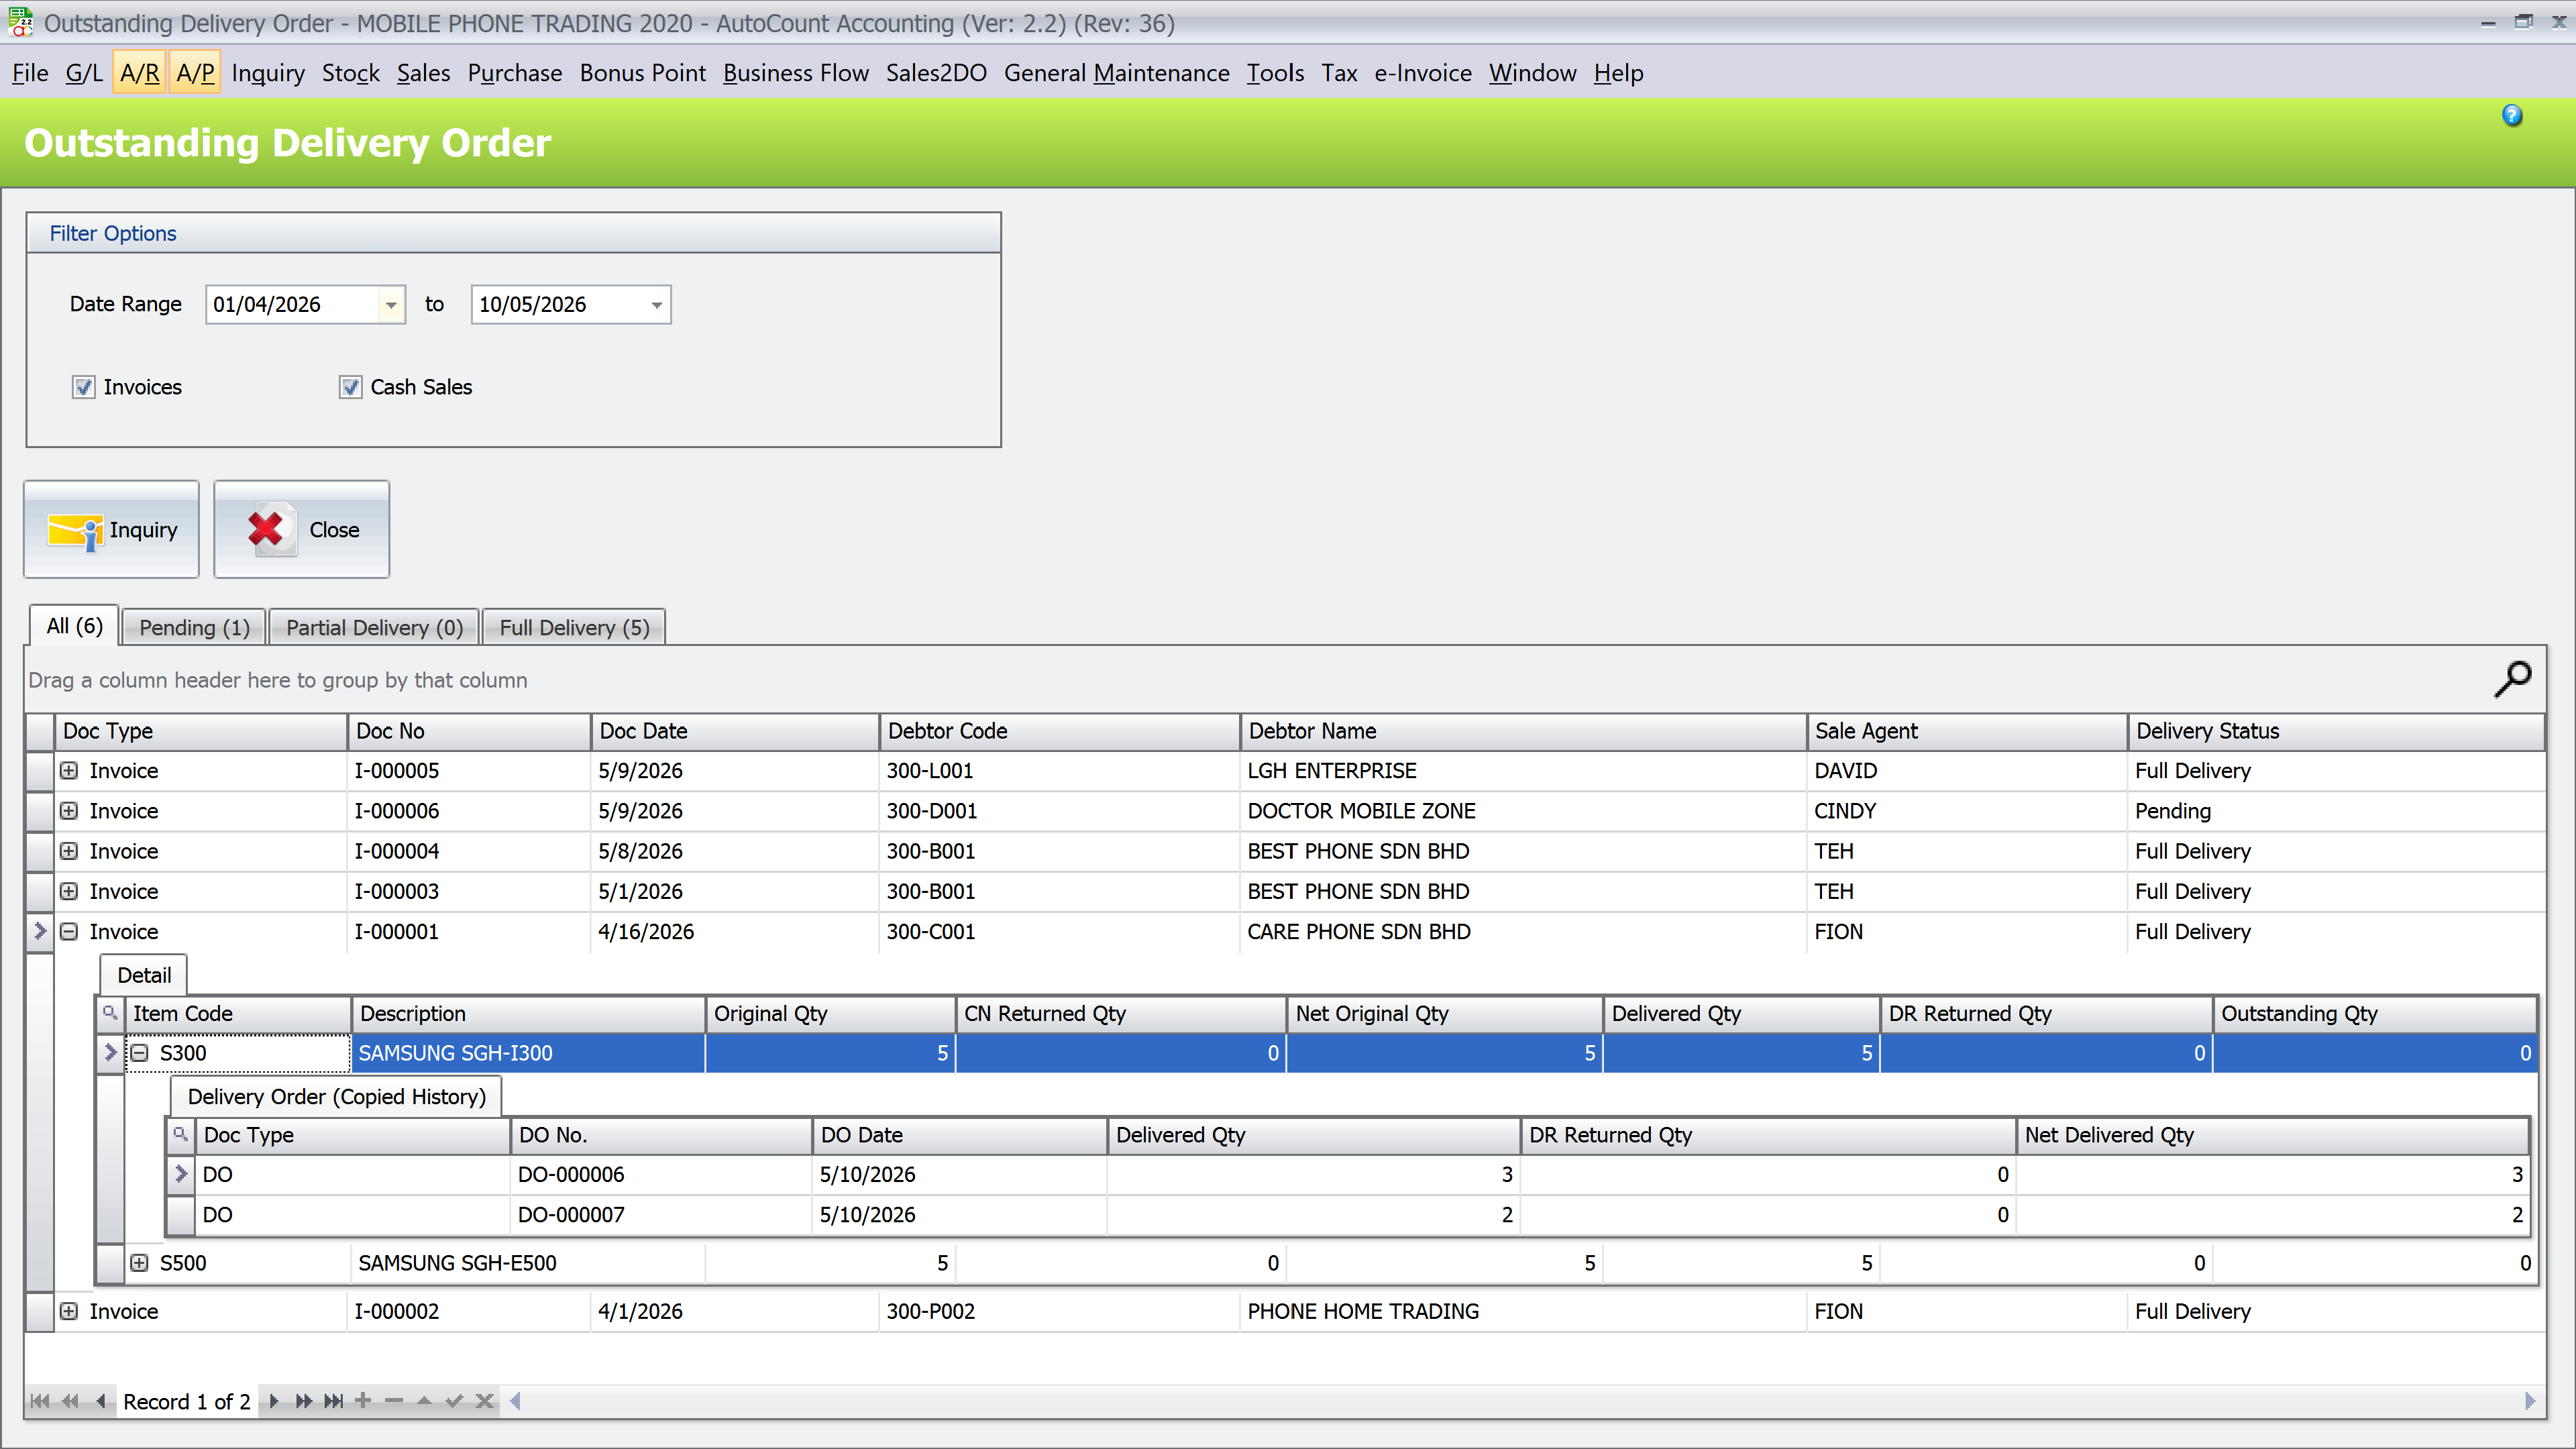
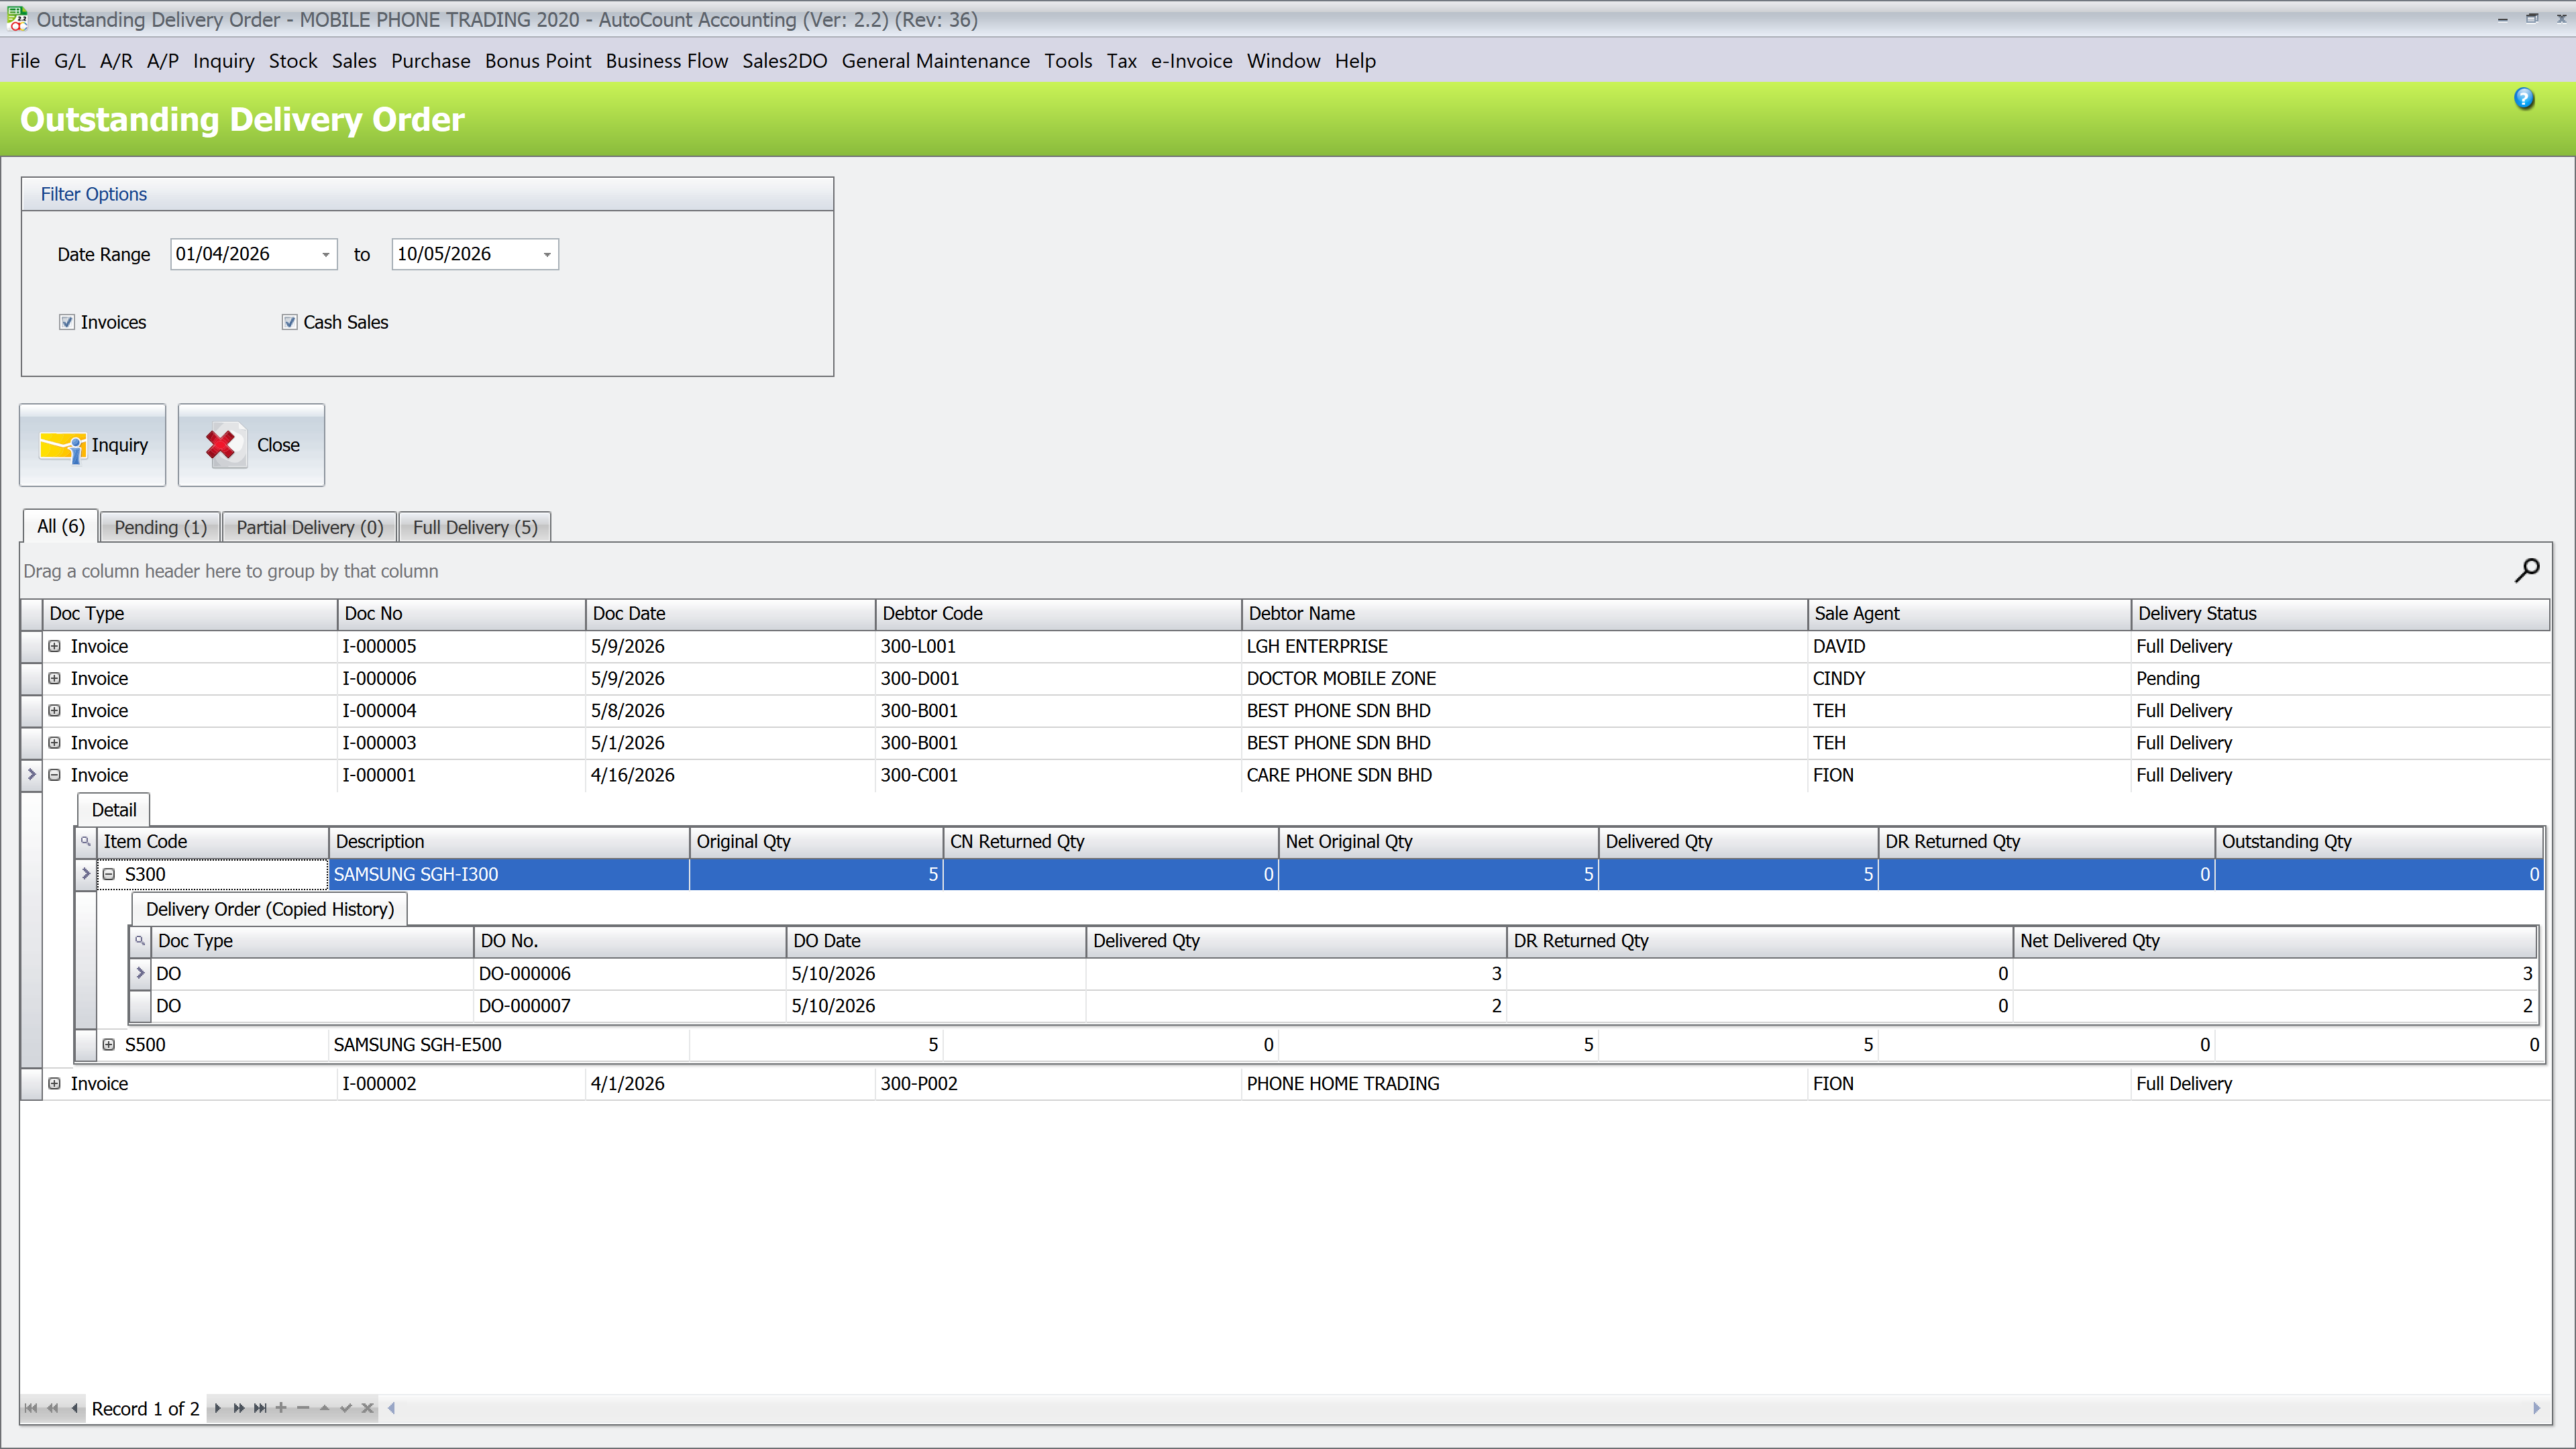
feat: in-page chatbot on touch, smarter back, new Sales2DO screenshots
AIChatbot:
- mobile / tablet FAB used to open KS-Omni in a new tab via target=_blank,
  which broke navigation continuity on the originating page. Drop the
  isTouch branch entirely so every device opens the same in-page modal.
- remove the now-unused isTouch state, omniHref helper, and resize listener.

KSOmni page:
- "Back to Homepage" button → "Back" — when there is browser history,
  pop one entry (returns to wherever the user came from); otherwise fall
  back to navigating "/" so direct visits to /omni still work.

Sales2DO page — wire up the four newly captured screenshots:
- hero.png — Outstanding DO with the Sales2DO menu dropdown visible (hero)
- outstanding.png — clean Outstanding DO dashboard (Outstanding section)
- preset-delivery.png — Stock Item Maintenance UDF tab (Preset section,
  was previously a placeholder)
- settings.png — refreshed Plugin Settings dialog

Changed region(s): [[0.0, 0.0, 1.0, 0.9926]]

diff --git a/src/components/AIChatbot.jsx b/src/components/AIChatbot.jsx
@@ -108,23 +108,7 @@ function Message({ msg }) {
 
 /* ── Main chatbot component ── */
 export default function AIChatbot({ app }) {
-  /* Build the omni page URL — appends ?app=<name> when caller passes a context */
-  const omniHref = app
-    ? `${OMNI_PAGE_BASE}?app=${encodeURIComponent(app)}`
-    : OMNI_PAGE_BASE;
-
   const [open, setOpen] = useState(false);
-  /* Detect touch-sized viewport so we can render an <a> instead of a <button>
-     for tablet/mobile — guarantees the tap reliably opens a new tab without
-     popup-blocker interference (window.open can fail silently on some tablets) */
-  const [isTouch, setIsTouch] = useState(
-    typeof window !== "undefined" && window.innerWidth <= 1024
-  );
-  useEffect(() => {
-    const onResize = () => setIsTouch(window.innerWidth <= 1024);
-    window.addEventListener("resize", onResize);
-    return () => window.removeEventListener("resize", onResize);
-  }, []);
 
   const [messages, setMessages] = useState([
     {
@@ -458,22 +442,9 @@ export default function AIChatbot({ app }) {
         const hoverIn  = e => { e.currentTarget.style.transform = "scale(1.08)"; e.currentTarget.style.background = "#3d4075"; };
         const hoverOut = e => { e.currentTarget.style.transform = "scale(1)";    e.currentTarget.style.background = "#2f315a"; };
 
-        if (isTouch) {
-          return (
-            <a
-              href={omniHref}
-              target="_blank"
-              rel="noopener noreferrer"
-              aria-label="Open AI assistant"
-              title="AutoCount Plugin Assistant"
-              style={fabStyle}
-              onMouseOver={hoverIn}
-              onMouseOut={hoverOut}
-            >
-              ?
-            </a>
-          );
-        }
+        /* Use the same in-page modal on every device — touch users used
+         * to be punted to a new tab via target="_blank", which broke
+         * navigation continuity. */
         return (
           <button
             onClick={() => setOpen(o => !o)}

diff --git a/src/pages/KSOmni.jsx b/src/pages/KSOmni.jsx
@@ -264,9 +264,13 @@ export default function KSLOmniPage() {
     setPasteError("");
   }
 
+  /* Try the browser back stack first — keeps users on whatever page
+   * they came from (Sales2DO, AutoCount, homepage). Falls back to "/"
+   * when /omni was opened directly (no prior history entry). */
   function goHome() {
     abortRef.current?.abort();
-    navigate("/");
+    if (window.history.length > 1) navigate(-1);
+    else navigate("/");
   }
 
   /* ── Shared image upload pipeline (paste OR file picker) ──
@@ -457,7 +461,7 @@ export default function KSLOmniPage() {
       : { ...baseBtn, background: "rgba(201,168,76,0.12)", border: "1px solid rgba(201,168,76,0.4)",    color: "#a17f1e" };
     return (
       <div style={{ display: "flex", gap: "0.5rem", flexWrap: "wrap" }}>
-        <button onClick={goHome} style={ghost}><BackIcon /> Back to Homepage</button>
+        <button onClick={goHome} style={ghost}><BackIcon /> Back</button>
         <button onClick={() => setShowQR(true)} style={gold}><QRIcon /> Open on Phone</button>
         <button onClick={clearChat} style={ghost}><TrashIcon /> Clear Chat</button>
       </div>
@@ -484,7 +488,7 @@ export default function KSLOmniPage() {
           paddingTop: "max(0.7rem, env(safe-area-inset-top))",
           display: "flex", alignItems: "center", gap: "0.55rem", flexShrink: 0,
         }}>
-          <button onClick={goHome} title="Back to Homepage" aria-label="Back to Homepage"
+          <button onClick={goHome} title="Back" aria-label="Back"
             style={{
               background: "rgba(255,255,255,0.1)", border: "none", color: "rgba(255,255,255,0.85)",
               width: 34, height: 34, borderRadius: "50%", cursor: "pointer",

diff --git a/src/pages/apps/Sales2DO.jsx b/src/pages/apps/Sales2DO.jsx
@@ -8,7 +8,9 @@ const WA_LINK = `https://wa.me/60169902279?text=${encodeURIComponent(
 )}`;
 import AIChatbot from "../../components/AIChatbot.jsx";
 import acPluginIcon     from "../../assets/images/apps/ac-plugin-icon.png";
+import imgHero          from "../../assets/images/apps/sales2do/hero.png";
 import imgOutstanding   from "../../assets/images/apps/sales2do/outstanding.png";
+import imgPreset        from "../../assets/images/apps/sales2do/preset-delivery.png";
 import imgSettings      from "../../assets/images/apps/sales2do/settings.png";
 /* Online/Offline activation screenshots are swapped — the file named
  * `license-online.png` was originally captured for the offline flow and
@@ -508,7 +510,7 @@ export default function Sales2DOPage({ onContact }) {
               </div>
             </div>
             <div className="product-hero-image" style={{ flex: "0 1 460px", maxWidth: 500 }}>
-              <img src={imgOutstanding} alt="Sales2DO Outstanding Delivery Order dashboard" style={{ width: "100%", height: "auto", display: "block" }} />
+              <img src={imgHero} alt="Sales2DO Outstanding Delivery Order dashboard" style={{ width: "100%", height: "auto", display: "block" }} />
             </div>
           </div>
         </div>
@@ -579,7 +581,7 @@ export default function Sales2DOPage({ onContact }) {
           <div style={S.label}>Item Configuration</div>
           <h2 style={S.h2}>Preset "Delivery?" in Stock Item Maintenance</h2>
 
-          <SectionRow image={null} alt="Stock Item Maintenance — Delivery? checkbox" caption='User Defined Field — "Delivery?" checkbox'>
+          <SectionRow image={imgPreset} alt="Stock Item Maintenance — Delivery? checkbox" caption='User Defined Field — "Delivery?" checkbox'>
             <p style={{ ...S.body, marginBottom: "1rem" }}>
               By presetting the <strong>"Delivery?"</strong> status, the plugin automatically determines which items
               should be delivered and tracked in the <strong>Outstanding Delivery Order</strong> dashboard.